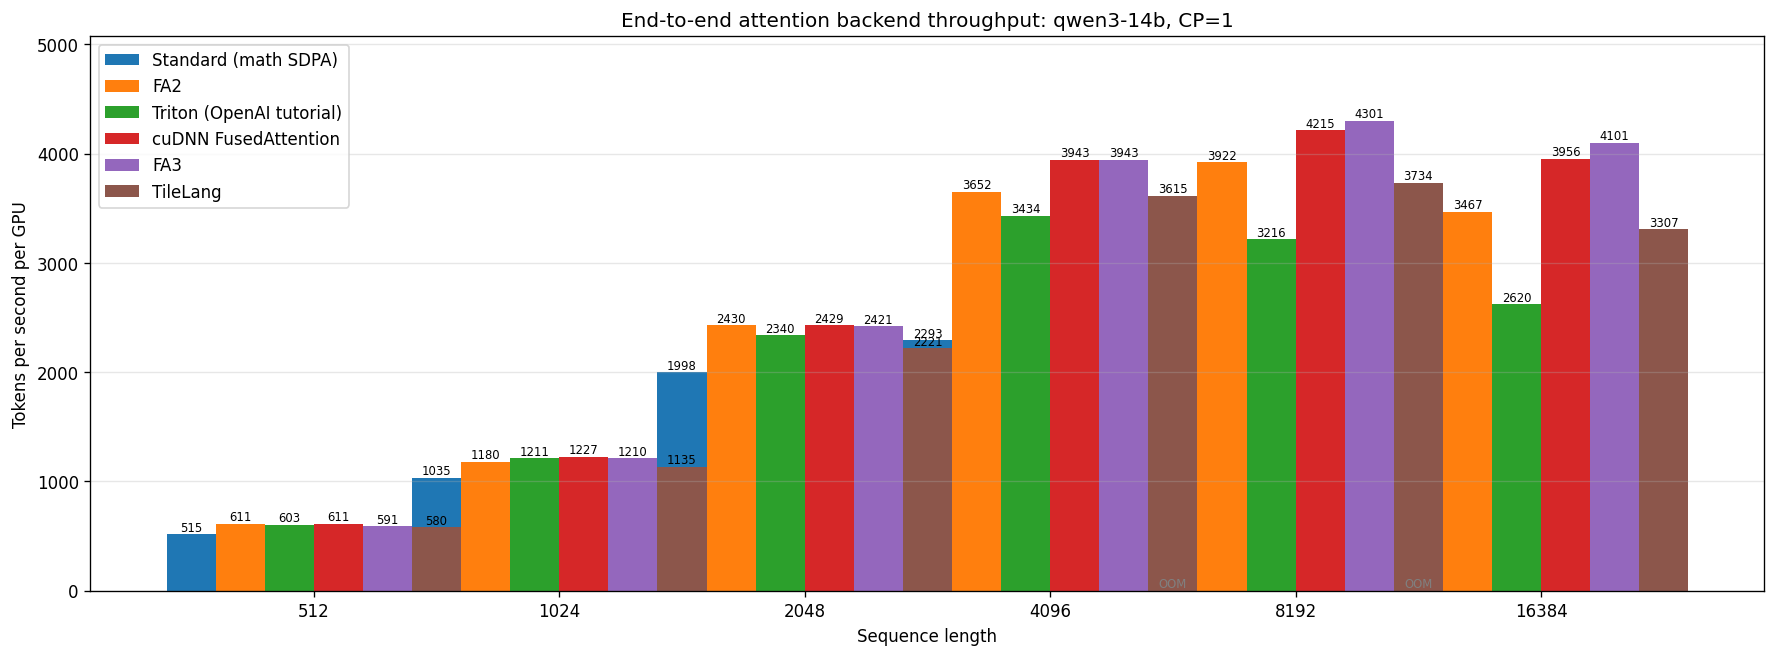
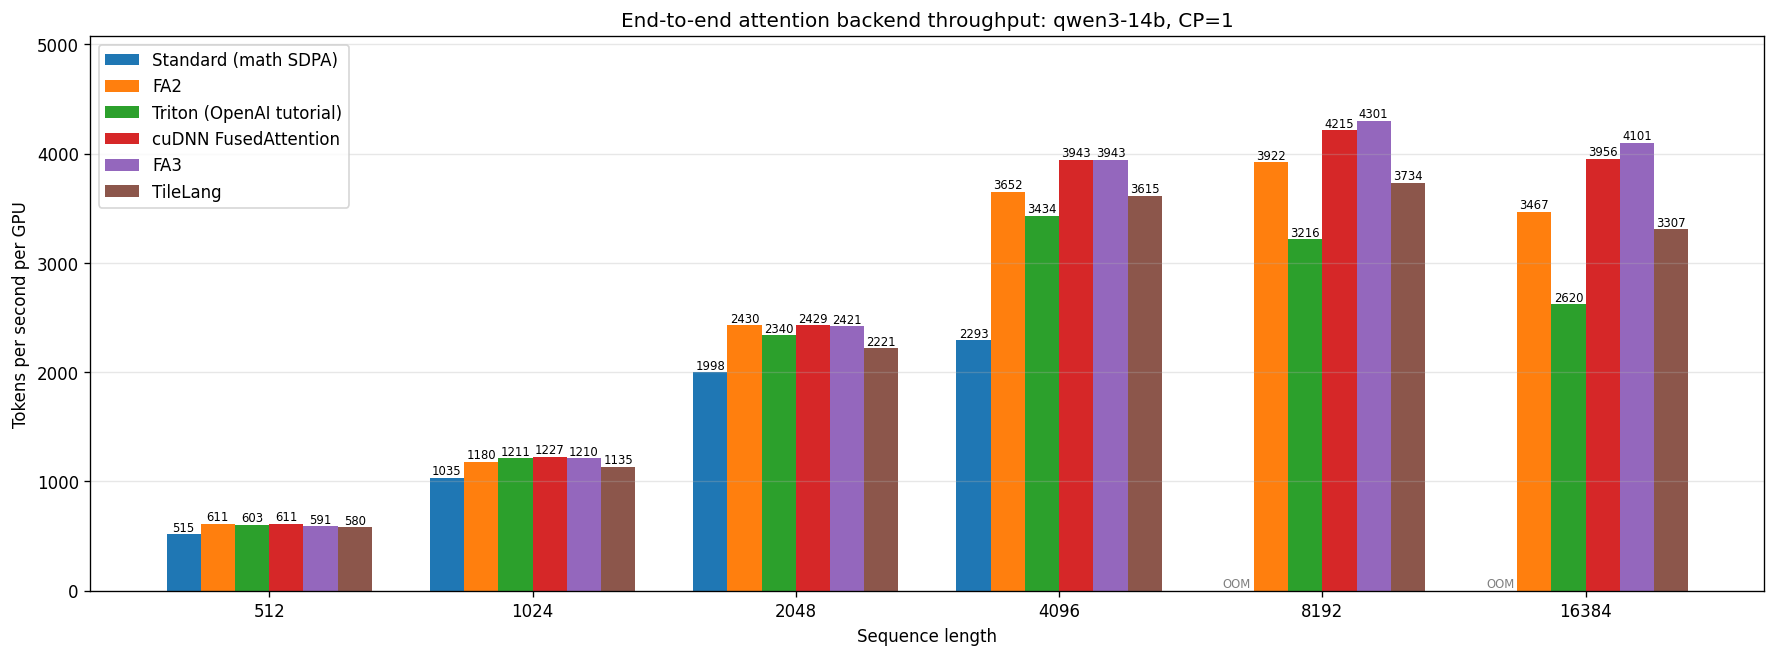
bench: narrow bar width to 0.13 to remove overlap on widened chart

Changed region(s): [[0.0929, 0.1522, 0.96, 0.9437]]

diff --git a/bench/plot_results.py b/bench/plot_results.py
@@ -61,7 +61,7 @@ def plot_panel(rows, model, cp, out_dir: Path) -> None:
 
     fig, ax = plt.subplots(figsize=(18, 6))
     x = np.arange(len(SEQ_LENS))
-    width = 0.20
+    width = 0.13
 
     for i, backend in enumerate(BACKEND_ORDER):
         heights = []